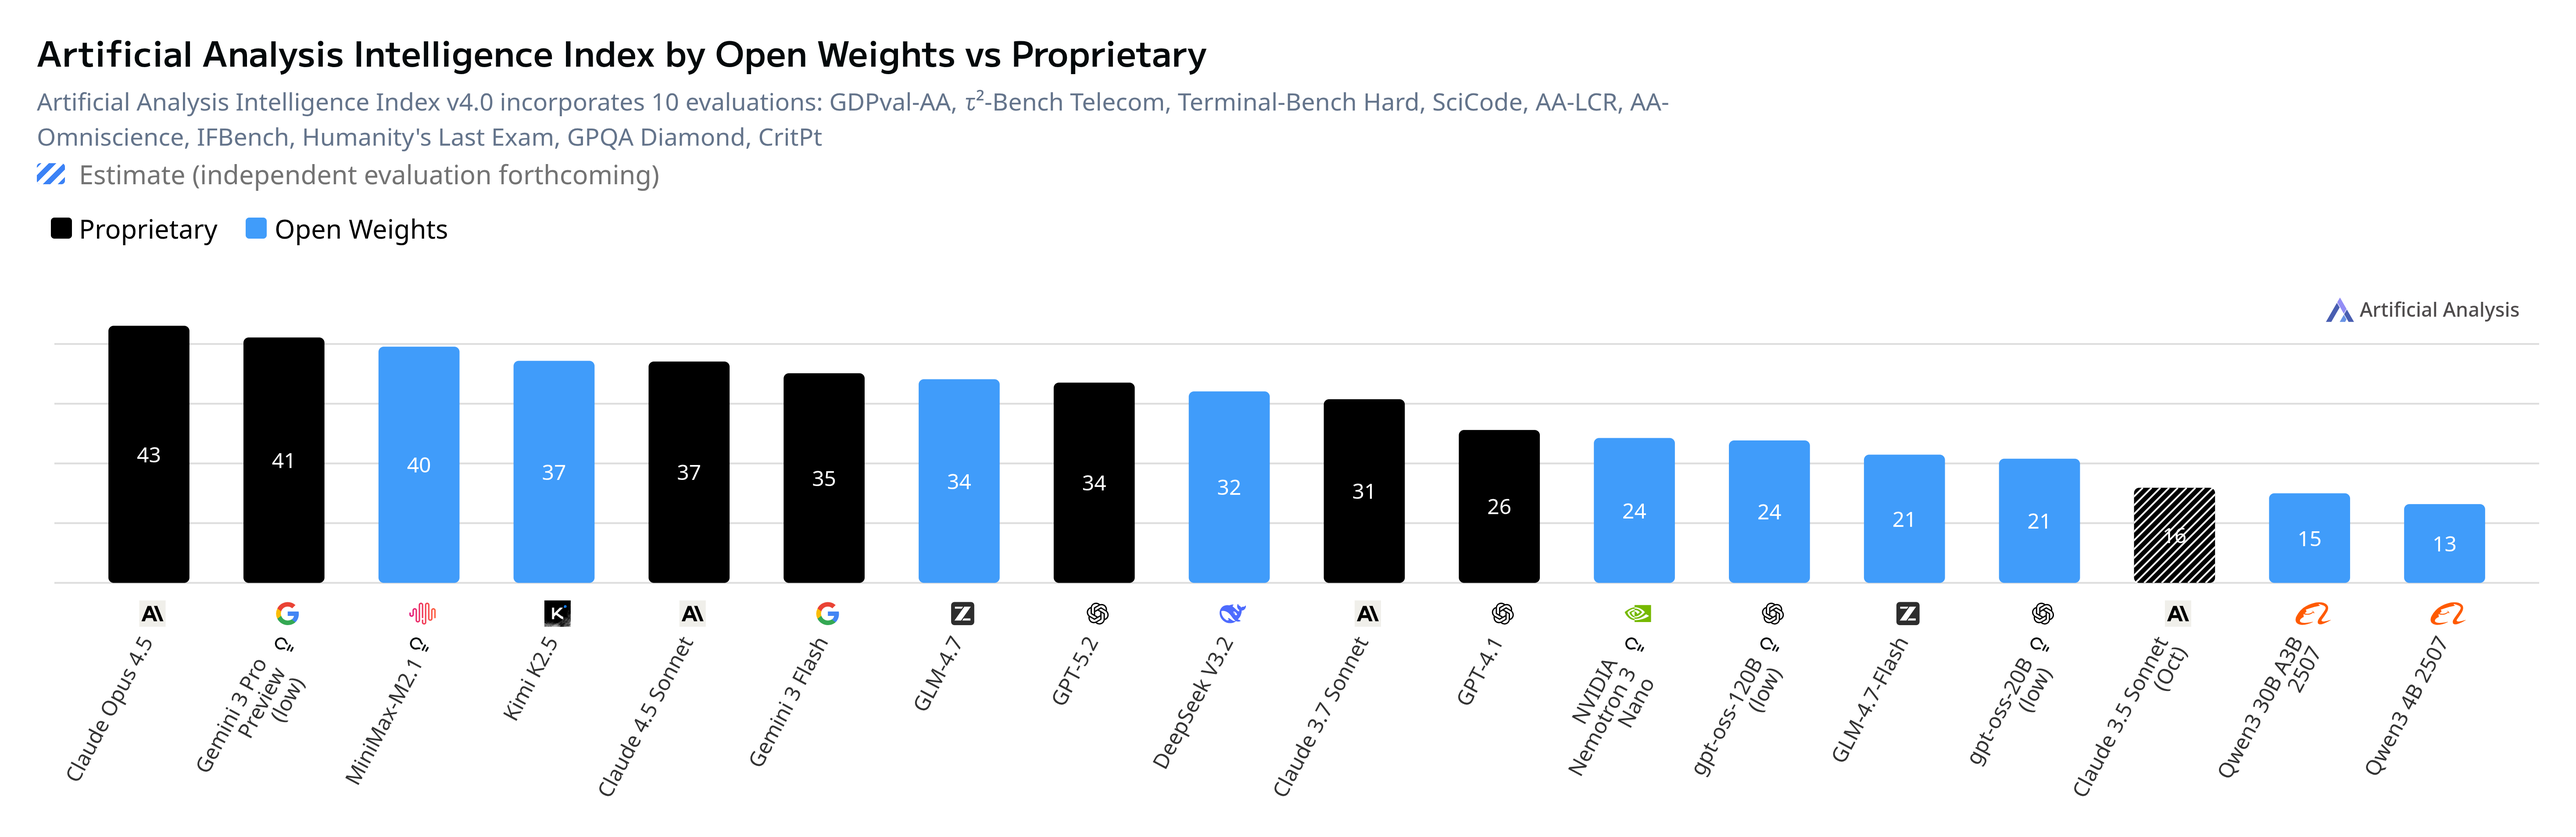
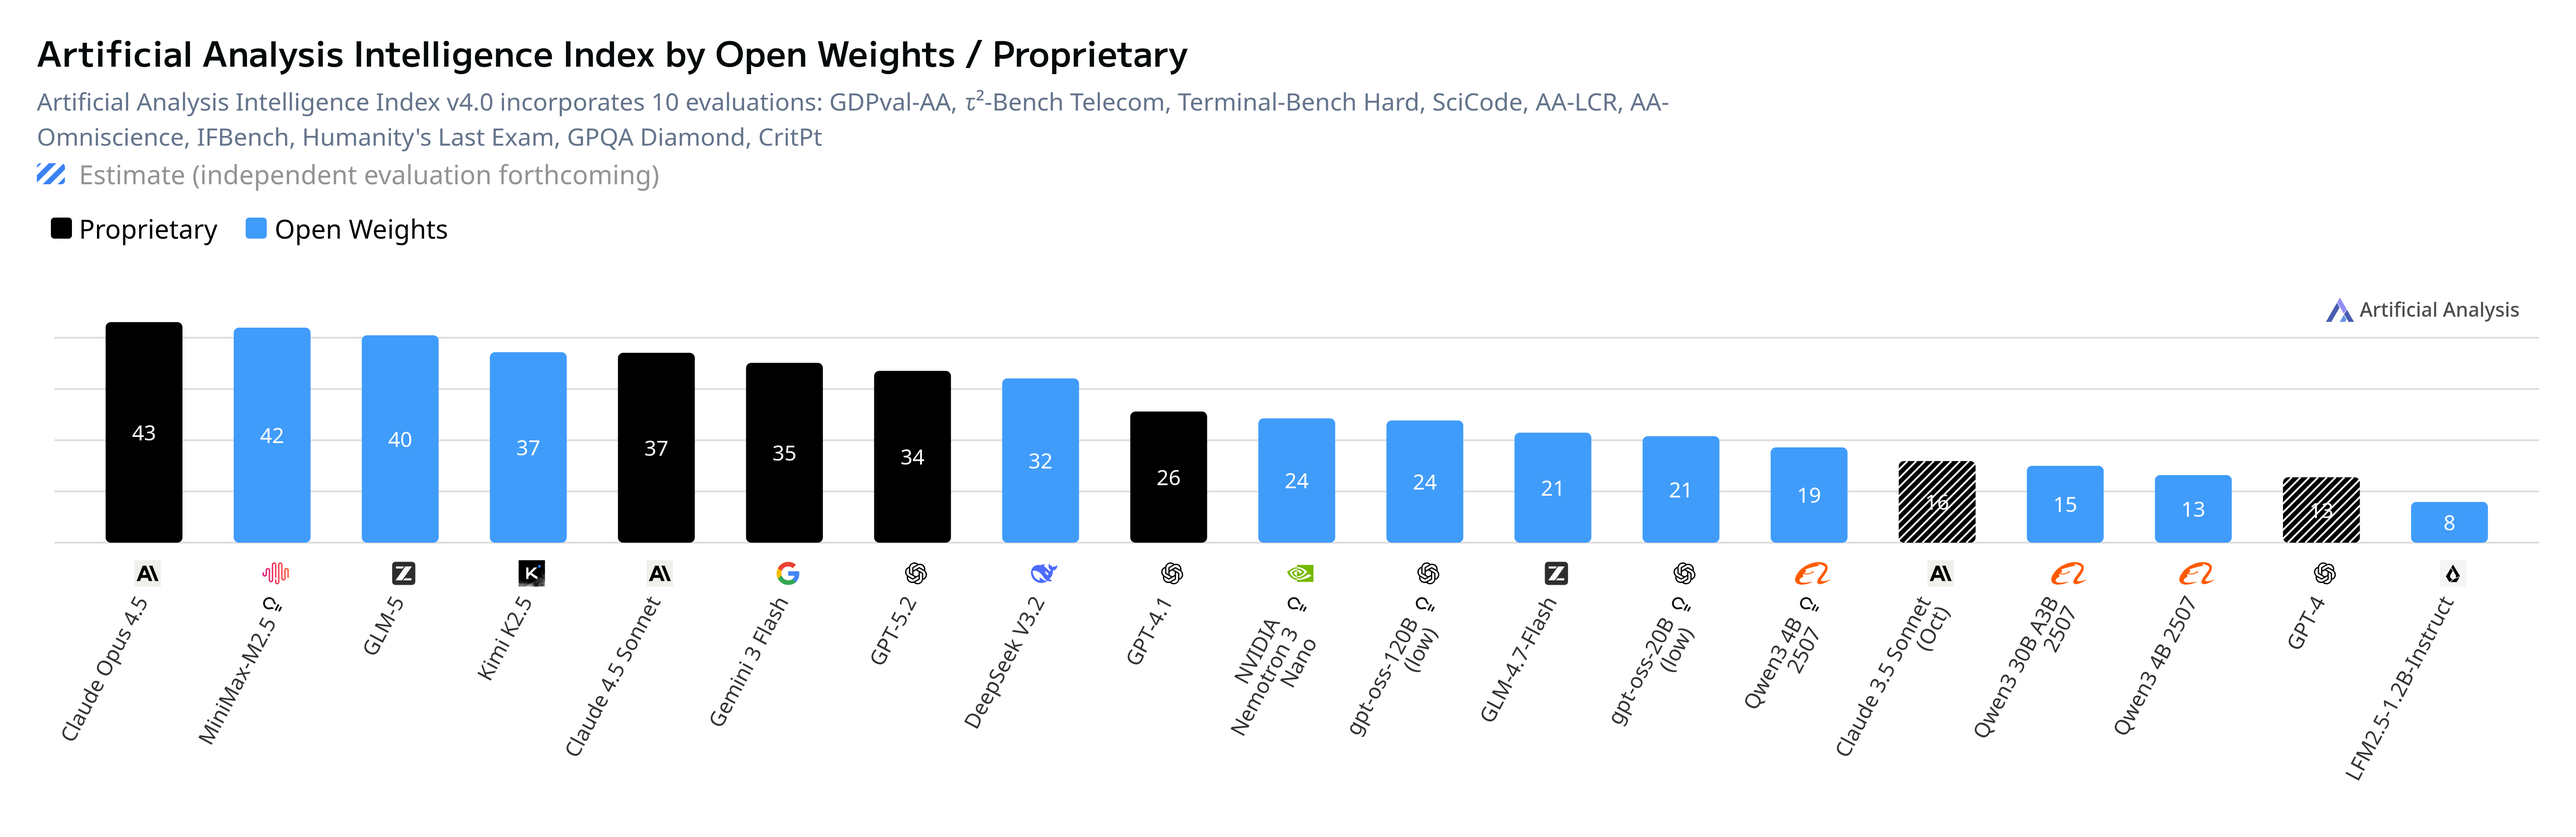
image and slide updated

diff --git a/slides/style.css b/slides/style.css
@@ -23,6 +23,10 @@ h2 {
 	line-height: 2.5rem !important;
 }
 
+code {
+	font-size: 1.25rem !important;
+}
+
 code.language-ansi {
 	white-space: pre-wrap;
 	overflow-wrap: anywhere;

diff --git a/slides/slides.md b/slides/slides.md
@@ -58,13 +58,13 @@ layout: two-cols-header
 <v-clicks>
 
 - **Deepseek V3.2** (Deepseek AI)
-- **GLM 4.7** (Z.ai)
+- **GLM 5** (Z.ai)
 - **Gemma 3 4/12/27B** (Google)
 - **Granite 4.0 Micro/Tiny/Small** (IBM)
 - **Kimi K2.5** (Moonshot AI)
 - **LFM 2.5-1.2B** (Liquid AI)
 - **Llama 4 Maverick** (Meta)
-- **MiniMax M2.1** (MiniMax)
+- **MiniMax M2.5** (MiniMax)
 
 </v-clicks>
 
@@ -87,30 +87,16 @@ I wonder if any of you had any open models in your list? Care to share what you 
 Here are a few open ones. Open, as in, free to download the model weights and run inference yourself.
 
 For about a year, I have been strangely obsessed with alternate language models other than just the big name flagship models that make most news. I don't have one clear reason for this attraction, but I think this diversity and the portability make this territory really fun to explore. It is simply fun to try the different models, and see what purposes they serve best.
+
 -->
 
 ---
-layout: image
-image: /emperor.png
-backgroundSize: contain
----
 
-<!--
-The emperor has no clothes! This is that old Hans Christian Andersen story in which the vain emperor is conned into parading about in nothing, believing that he is wearing clothes, until a kid in the crowd says, "the emperor has no clothes!" which then causes the crowd to come to its senses as well.
+Related but not Synonymous:
 
-I think that in the midst of all the AI hype and huckstering there is plenty of opportunity to point out that there are a lot of elaborate clothes everyone is marveling about and they just aren't real. The shallow religion of AGI hope, the ever-evolving landscape of buzzwords that themselves are so semantically diffused there good for not much other than exciting and belittling others. Even the term "Artifical Intelligence" seems like a misnomer and a load of human hubris. But after 75 years, I guess the name has stuck, so we'll use it.
--->
-
----
-layout: image
-image: /useful-engines.png
-backgroundSize: contain
----
-
-<!--
-At the same time, there is something really useful here. Why spend so much energy imagining outlandish constructs of the future when what we have, even if AI development would stop and plateau today, is so rich with usability? We have tools that can parse and produce human language with imperfect yet impressive coherence. You might be surprised how much can be accomplished by even some of the smallest such engines. And you don't have to take someone else's word for it, you can download and try it yourself.
--->
-
+- Open models
+- Small models
+- Self-hostable models
 
 ---
 layout: image
@@ -120,33 +106,26 @@ backgroundSize: contain
 
 <!--
 
-I'd like to begin by remembering GPT-4. Luke Demi took the stage at CPOSC in 2023 and wowed us with a presentation that GPT-4 produced. And it was good! Do you remember that tipping point, when AI became good? That was GPT-4. And look at how it compares to even small models. I included large and proprietary models for reference. The open weights models are in blue. None of these except for gpt-oss have reasoning on.
+I'd like to begin by remembering GPT-4. Luke Demi took the stage at CPOSC in 2023 and wowed us with a presentation that GPT-4 produced. And it was good! Do you remember that tipping point, when AI became good? That was GPT-4. And look at how it compares to even small models. I included large and proprietary models for reference. The open weights models are in blue. None of these have reasoning on except for MiniMax, gpt-oss, and Nemotron.
 
-Most of the models shown here are small, open, and can be hosted locally. Why might that be appealing?
+Of the open models, some of these, towards the right, are self-hostable for any of us. Some, towards the left, are self-hostable if you want to buy a few Nvidia B200 GPUs. Each B200 costs a minimum of $30,000, so do the math. That sounds crazy, but there could be companies who want that level of control and privacy, and this would be an acceptable cost.
+
+There is a mid-range -- with a few thousand or even just a few hundred, you can run a smaller model that certainly isn't as capable as the large ones, but isn't puny either.
+
 -->
 
 ---
-layout: image-right
-image: /feather.svg
-backgroundSize: contain
----
 
-# The Benefits of being Small
+Related but not Synonymous:
 
-<v-clicks>
-
-- **Low latency**: Faster response time
-- **Can be purpose-built**: May be fine-tuned for specific tasks
-- **Low cost**: Cheaper to run and better for the environment.
-
-</v-clicks>
+- Open models
+- Small models
+- Self-hostable models
 
 <!--
-If you run a 1 trillion parameter model and a 600 million parameter model on the same hardware, the 600 million one is going to feel realtime by comparison.
 
-A smaller model can be trained to be better at a task than a larger behemoth. Re-ranking for instance. Huge models are great at taking a list, and a text, and ranking which items from the list are most relevant to the text. But the best re-rankers are a small fraction of the size of the behemoths.
+Today we are talking about these potentially overlapping qualities. If you want to self-host, then you need an open model, and probably a pretty small model. But just because a model is open doesn't mean you can self-host it realistically, and just because a model is small doesn't mean it is small enough to run in any usable way on your hardware. But there are small open models that any of you can self-host, and there are probably applications and activities in which even those very small models are desirable.
 
-Finally, they are much cheaper and more energy-efficient to run, whether you're paying a cloud inference provider or your own electricity bill.
 -->
 
 ---
@@ -168,7 +147,32 @@ backgroundSize: contain
 </v-clicks>
 
 <!--
-**"Own"-able**: You control the model,  **Studyable**: inspect, understand, trust,  Sustainable**: usable apart from a lab, **Shareable**: use and build upon, recommend to others without strings attached. **Customizable**: You can fine-tune it with your own data for specific tasks. I do not do this, and I am skeptical that fine-tuning is as easy and useful as what some think. More importantly, if you have a candy store of small models to choose from, you can easily swap them in and out
+**"Own"-able**: You control the model,  **Studyable**: inspect, understand, trust, consistent Sustainable**: usable apart from a lab, **Shareable**: use and build upon, recommend to others without strings attached. **Customizable**: You can fine-tune it with your own data for specific tasks. I do not do this, and I am skeptical that fine-tuning is as easy and useful as what some think. More importantly, if you have a candy store of small models to choose from (which you do on huggingface), you can easily swap them in and out
+-->
+
+---
+layout: image-right
+image: /feather.svg
+backgroundSize: contain
+---
+
+# The Benefits of being Small
+
+<v-clicks>
+
+- **Low latency**: Faster response time
+- **Can be purpose-built**: May be fine-tuned for specific tasks
+- **Low cost**: Cheaper to run and better for the environment.
+
+</v-clicks>
+
+<!--
+
+On the same hardware, a 32 billion parameter model will scream in comparison to a 1 trillion parameter model.
+
+A smaller model can be trained to be better at a task than a larger behemoth. Re-ranking for instance. Huge models are great at taking a list, and a text, and ranking which items from the list are most relevant to the text. But the best re-rankers are a small fraction of the size of the behemoths.
+
+Finally, they are much cheaper and more energy-efficient to run, whether you're paying a cloud inference provider or your own electricity bill.
 -->
 
 ---
@@ -197,11 +201,8 @@ So what happens when you combine small and open? You get the ability to run mode
 
 The most obvious benefit is privacy. If you're working with sensitive information, running a model locally means your data never gets sent to a third-party server.
 
-This also unlocks deep personalization. You can train a model on your personal emails or notes to create a truly personal assistant.
+But it is just fun and satisfying. And you don't even need the internet.
 
-It's also just a fantastic way to learn and have fun.
-
-And practically, it enables portability and edge computing. Imagine a powerful language model running on a device in a remote location with no internet. It's possible today.
 -->
 
 ---
@@ -211,7 +212,7 @@ layout: section
 # How Do I Run Models Locally?
 
 <!--
-Okay, I've hopefully convinced you that this is a cool and useful thing to do. So, how do you actually do it? Let's look at a few popular tools.
+A few popular tools for running models locally, along with my recommendation.
 -->
 
 ---
@@ -224,28 +225,7 @@ backgroundSize: contain
 
 Ollama is great for experimentation, as it has a lot of sane defaults and makes it easy to swap out models.
 
-See models at [ollama.com/search](https://ollama.com/search) (stick with 4b or smaller for now; try qwen3, gemma3n, gemma3, granite4, phi4-mini...)
-
----
-
-##
-
-1.  Install it from `ollama.com`
-2.  Start the server (usually runs automatically)
-    ```bash
-    ollama serve
-    ```
-3.  Run a model from the command line
-    ```bash
-	ollama run qwen3:4b-instruct
-    ```
-4.  Chat away!
-
-<!--
-The easiest entry point for most people is a tool called Ollama. It bundles everything you need into one simple package.
-
-You just install it, and it runs a server in the background. Then, from your terminal, you can type 'ollama run' followed by the name of a model. It will download the model if you don't have it and drop you right into a chat interface. It's the 'it just works' solution for local LLMs.
--->
+See models at [ollama.com/search](https://ollama.com/search) but warning: it is confusing
 
 ---
 layout: two-cols
@@ -268,19 +248,16 @@ Tools like vLLM and SGLang are optimized for high-throughput serving. They use c
 -->
 
 ---
-layout: image-left
-image: mlx.png
-backgroundSize: contain
----
-
-## On Apple Silicon
 
 ```sh
-mlx_vlm.generate \
---model mlx-community/Qwen3-VL-4B-Instruct-6bit \
---prompt "Describe this image." \
---image picture_of_an_apple.png
+# https://github.com/ml-explore/mlx-lm
+mlx.generate --prompt "Summarize the stochastic parrot paper"
+--model mlx-community/Qwen3-4B-Instruct-2507-mxfp8
 ```
+
+![mlx](/mlx-horizontal.svg)
+
+---
 
 <!--
 -->
@@ -293,7 +270,7 @@ backgroundSize: contain
 
 ## llama.cpp
 
-`llama.cpp` is what Ollama and many other tools use under the hood. It works well with GPUs, and is also the best tool to use if you only have CPU. It uses a quantization format called GGUF
+`llama.cpp` is what I use and recommend. Many other tools, such as Ollama, use under the hood. It works well with GPUs, and is also the best tool to use if you only have CPU. It uses a quantization format called GGUF
 
 ---
 
@@ -304,7 +281,8 @@ backgroundSize: contain
     ```bash
     llama-cli -hf unsloth/Qwen3-4B-Instruct-2507-GGUF:Q4_K_M
     ```
-3.  Chat away!
+3. Web interface: once you have a model, just run `llama-server` then browse to localhost:8080
+4.  Chat away!
 
 <!--
 Now let's look at the engine that powers many of these tools: llama.cpp. This is a C++ library that is incredibly efficient.
